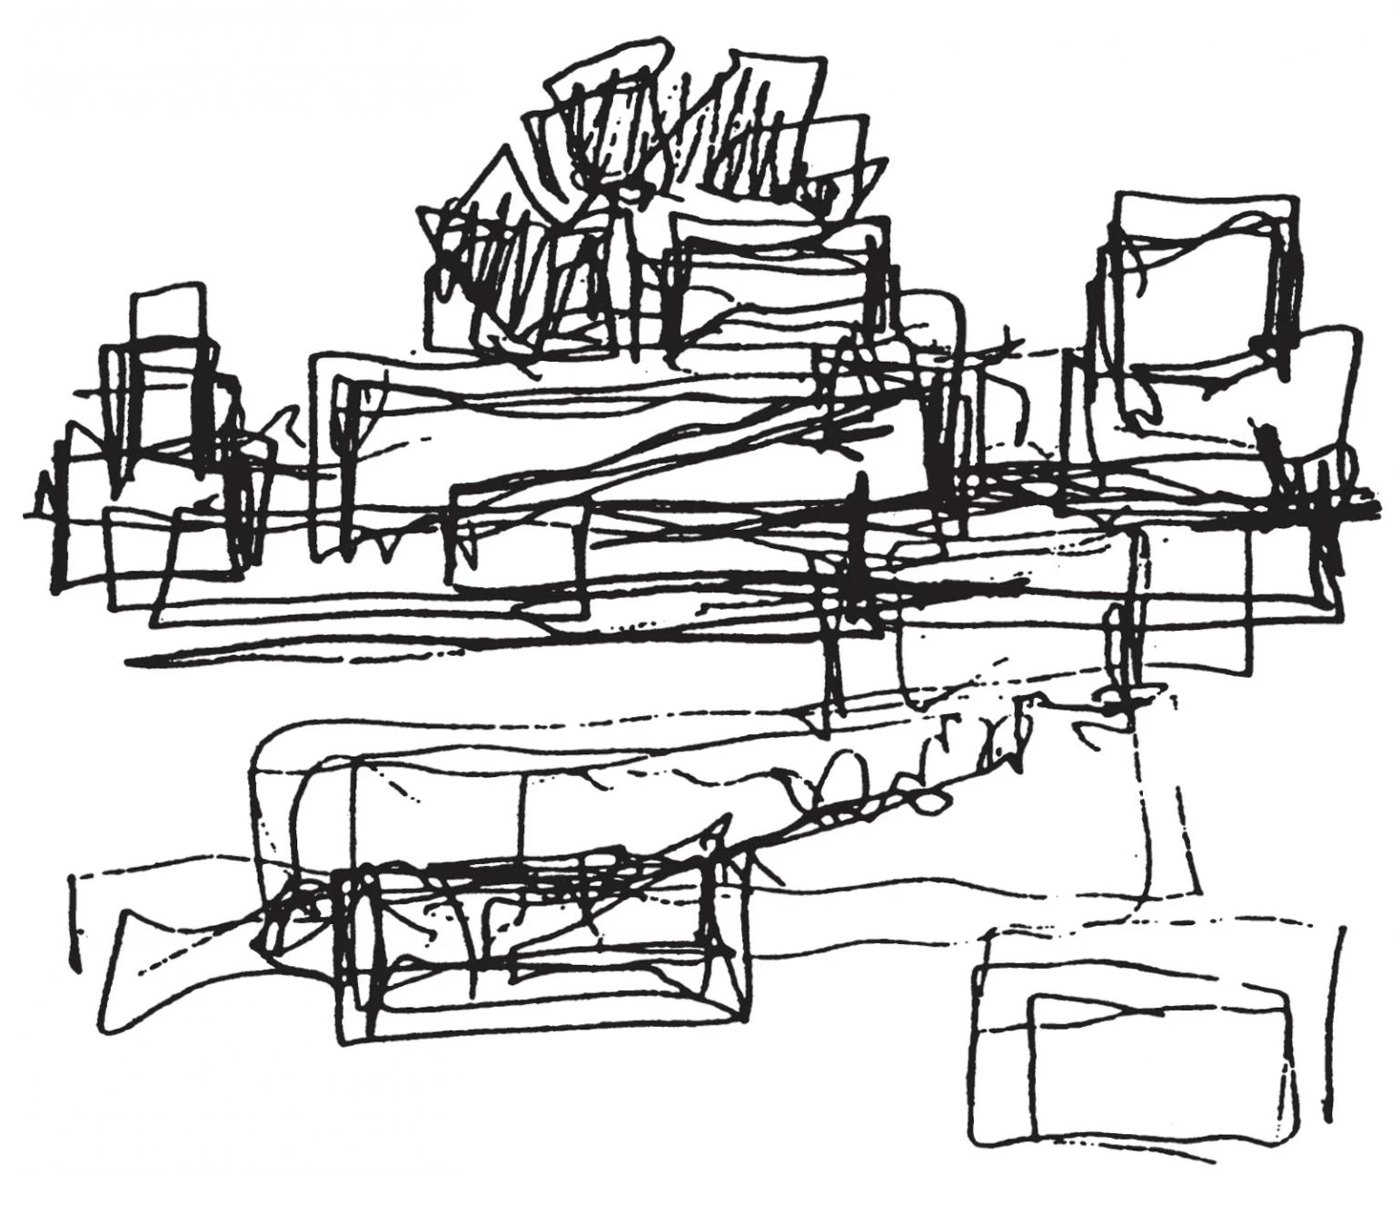
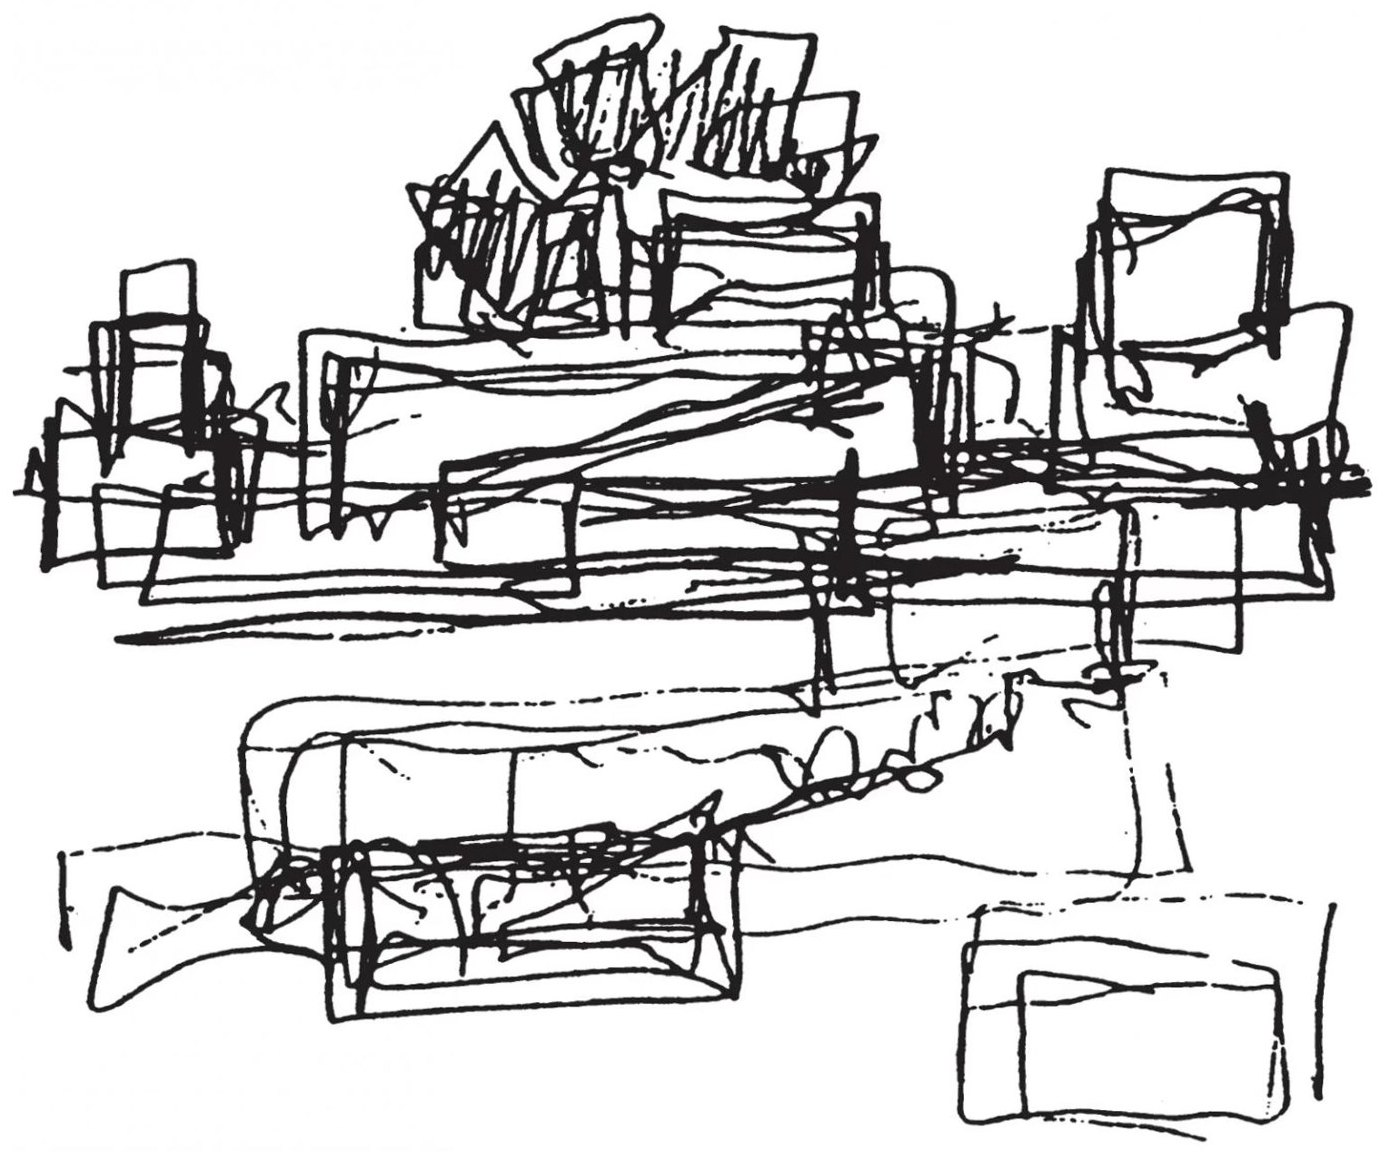
Guggenheim: map and titanium photo up, Gehry sketch trimmed and moved up, credit via AV
Claude-Session: https://claude.ai/code/session_01L13hW5hbfT9idcgmNQnEiq

Changed region(s): [[0.0, 0.0, 0.9935, 0.9983]]

diff --git a/index.html b/index.html
@@ -14,7 +14,7 @@
 .moneo-wide{width:64%}@media (max-width:760px){.moneo-wide{width:88%}}
 #tue-kursaal .word{padding:22px 16px 18px 18px}#tue-kursaal .word dl{gap:4px 10px;letter-spacing:0}#tue-kursaal .word dt{letter-spacing:.1em}
 .print.map{padding:0;background:none}
-@media (min-width:761px){.gehry-col{margin-top:-150px}}
+@media (min-width:761px){.gehry-col{margin-top:-200px}}
 .sketch-credit a{color:inherit;text-decoration:underline;text-underline-offset:2px}
 </style>
 <title>Wood, Salt &amp; Light</title>
@@ -966,8 +966,8 @@ footer .note{color:var(--light)}
         <figure class="print" style="--r:1.2deg"><span class="tape" style="--tr:-3deg"></span><div class="ph" style="aspect-ratio:1090/1453"><img src="img/wed-gugg-arrival.jpg" alt="Dennis and Elba on the plaza, Elba photographing the Guggenheim&rsquo;s titanium curves and canopy" loading="lazy"></div><figcaption>first look, with Dennis</figcaption></figure>
       </div>
     </div>
-    <div class="c-b" style="grid-column:8 / span 5;margin-top:24px">
-      <figure class="print map" style="--r:2deg;width:62%;margin:0 0 40px 12%"><span class="tape" style="--tr:-4deg"></span><div class="ph" style="aspect-ratio:398/386"><img src="img/wed-gugg-map.jpg" alt="Map pin on the Guggenheim, on the river beside Av. de las Universidades, Parque Rep&uacute;blica de Abando and Abandoibarra" loading="lazy"></div></figure>
+    <div class="c-b" style="grid-column:8 / span 5;margin-top:0">
+      <figure class="print map" style="--r:2deg;width:62%;margin:0 0 26px 12%"><span class="tape" style="--tr:-4deg"></span><div class="ph" style="aspect-ratio:398/386"><img src="img/wed-gugg-map.jpg" alt="Map pin on the Guggenheim, on the river beside Av. de las Universidades, Parque Rep&uacute;blica de Abando and Abandoibarra" loading="lazy"></div></figure>
       <figure class="print" style="--r:-1.5deg"><span class="tape" style="--tr:3deg"></span><div class="ph" style="aspect-ratio:1350/1800"><img src="img/wed-gehry-curves.jpg" alt="Gehry&rsquo;s titanium curves folding into one another against a pale sky" loading="lazy"></div><figcaption>titanium, folding</figcaption></figure>
     </div>
 
@@ -984,7 +984,7 @@ footer .note{color:var(--light)}
       </div>
     </div>
     <div class="c-b gehry-col" style="grid-column:8 / span 5;align-self:end;margin-bottom:24px">
-      <div style="width:84%;margin:0 0 0 4%"><figure class="sketch-wrap" style="margin:0"><div class="moneo-paper" style="--r:-1.2deg"><span class="tape" style="--tr:3deg"></span><img src="img/wed-gehry-sketch.jpg" width="1400" height="1214" alt="Frank Gehry's early sketch of the Guggenheim Bilbao: a tangle of curving volumes stepping down to the river" loading="lazy"></div><figcaption class="sketch-credit">Sketch · Frank Gehry · <a href="https://arquitecturaviva.com/obras/museo-guggenheim-bilbao" target="_blank" rel="noopener">via Arquitectura Viva</a></figcaption></figure></div>
+      <div style="width:84%;margin:0 0 0 4%"><figure class="sketch-wrap" style="margin:0"><div class="moneo-paper" style="--r:-1.2deg;padding:24px 16px 14px"><span class="tape" style="--tr:3deg"></span><img src="img/wed-gehry-sketch.jpg" width="1385" height="1154" alt="Frank Gehry's early sketch of the Guggenheim Bilbao: a tangle of curving volumes stepping down to the river" loading="lazy"></div><figcaption class="sketch-credit">Sketch · Frank Gehry · via <a href="https://arquitecturaviva.com/obras/museo-guggenheim-bilbao" target="_blank" rel="noopener">AV</a></figcaption></figure></div>
       <div style="width:80%;margin:4px 0 0 auto;position:relative;z-index:2"><div class="word" style="--r:-1.5deg">
         <p class="eu">Puppy</p>
         <dl>
